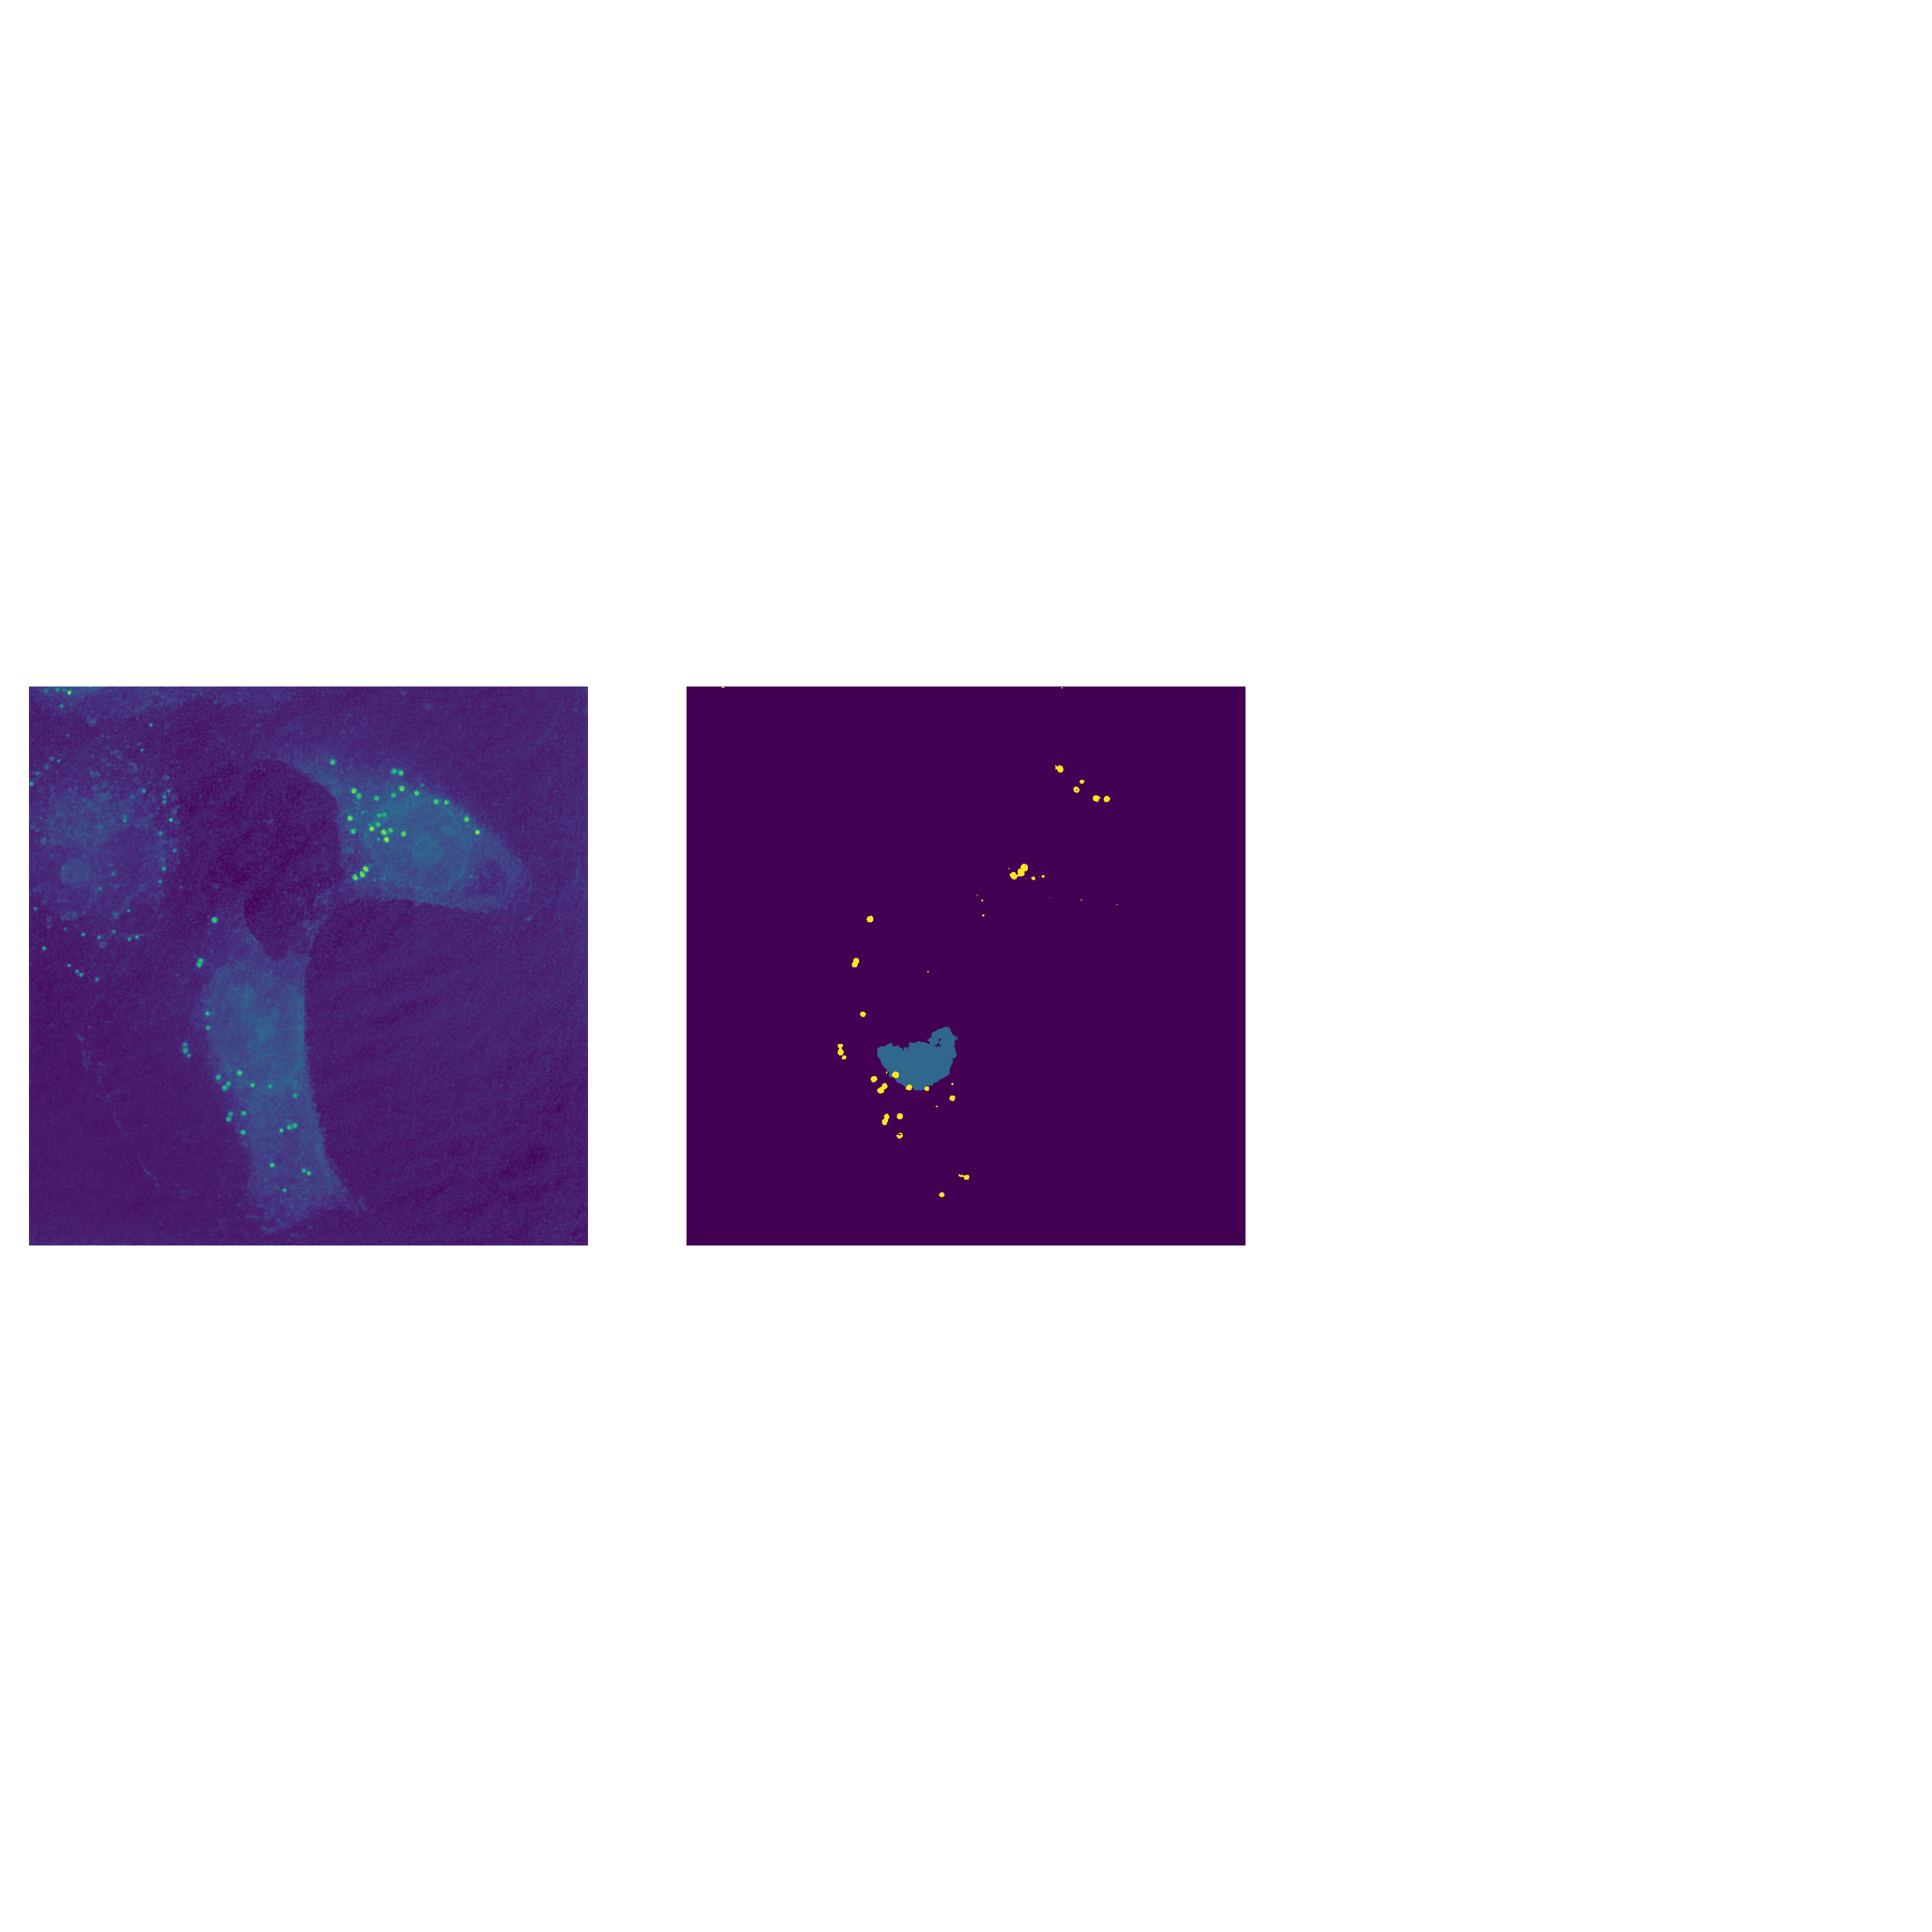
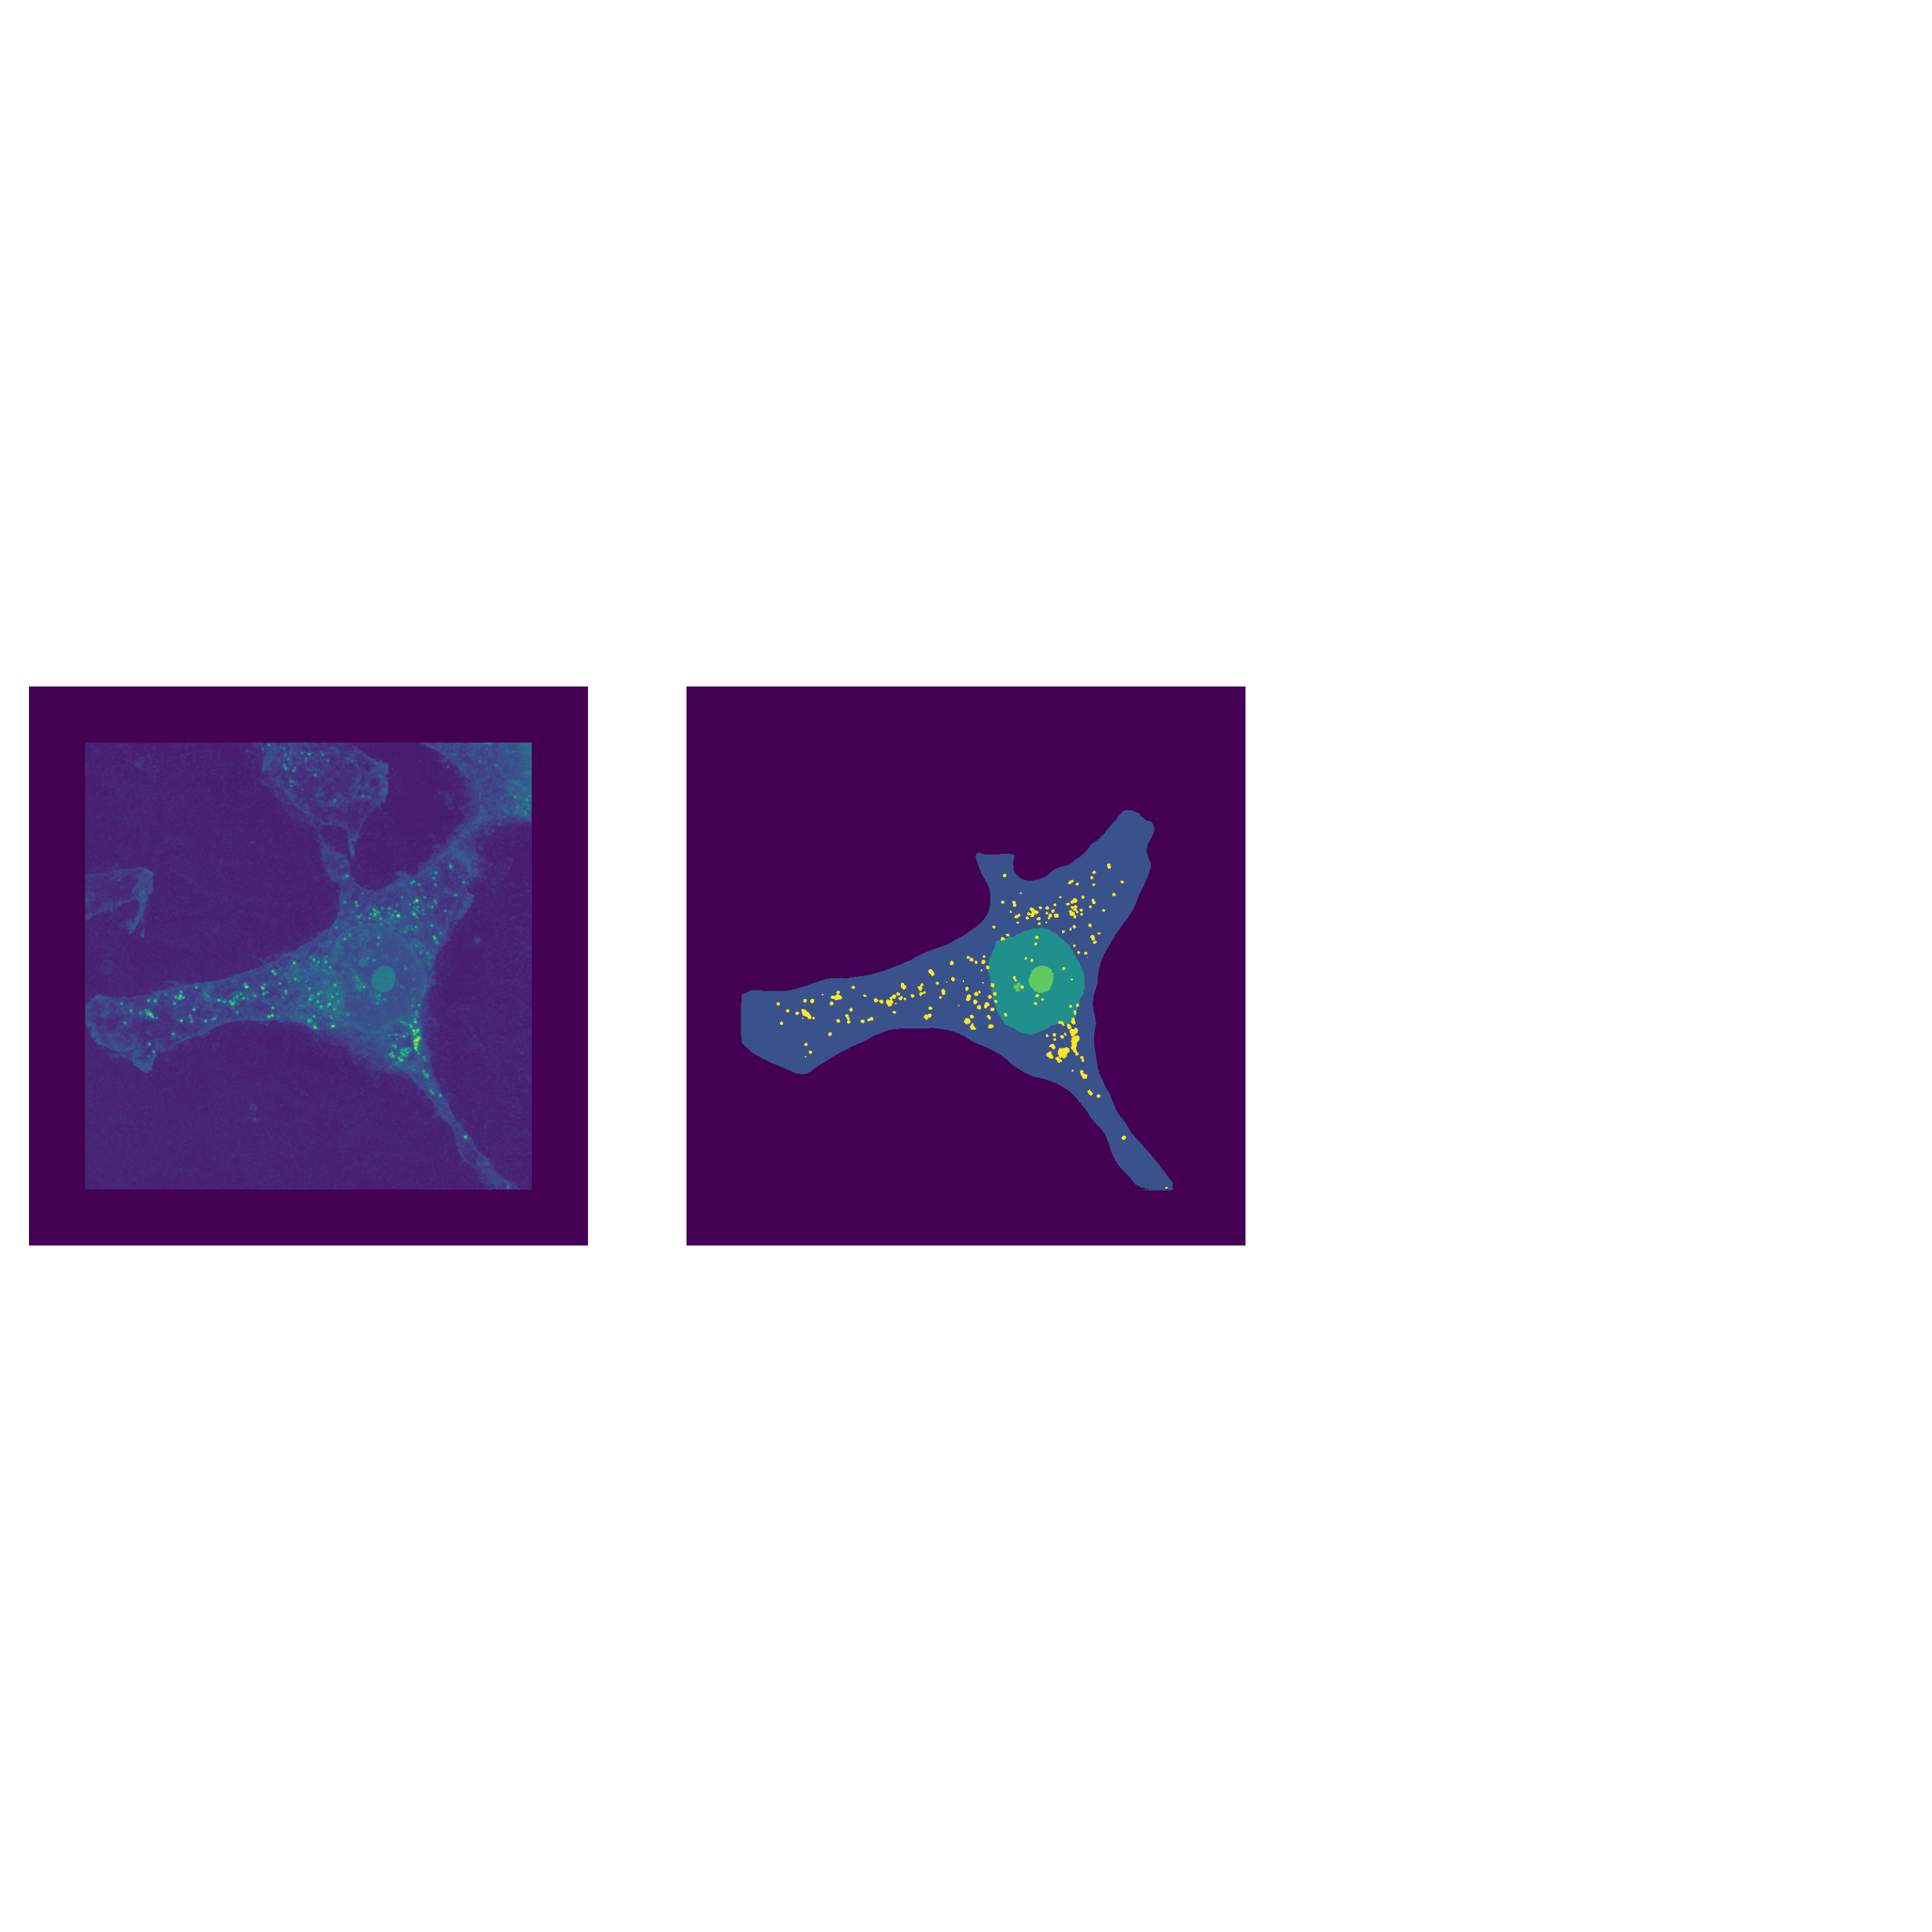
files are updated for cpu

Changed region(s): [[0.0, 0.341, 0.31, 0.651], [0.372, 0.403, 0.62, 0.62]]

diff --git a/qpi_seg/cellpose_pretrained_eval.py b/qpi_seg/cellpose_pretrained_eval.py
@@ -29,19 +29,19 @@ h=val_images[0].shape[1]
 
 out_file_name_stems=[os.path.splitext(file)[0][:30]+'_cp_masks.tiff'for file in val_image_files]
 
-
-val_image_resized=[resize(image, (418,418), anti_aliasing=True,preserve_range=True) for image in val_images]
+#trying rescale to
+val_image_resized=[resize(image, (200,200), anti_aliasing=True,preserve_range=True) for image in val_images]
 
 cpmodel_baseline_50epochs = models.CellposeModel(gpu=False,
                                 pretrained_model=first_model_path)
-
-test_masks_output, flows, styles = cpmodel_baseline_50epochs.eval(val_image_resized, batch_size=4, normalize = True,niter=500,flow_threshold=0.4)
+#niter needs to be higher 
+test_masks_output, flows, styles = cpmodel_baseline_50epochs.eval(val_image_resized, batch_size=4, normalize = True,flow_threshold=0)
 
 #TODO: I have to change shape
 #add a function to resize to the original shape of the image
 
-
-test_masks_resized=[resize(image, (w,h),preserve_range=True,order=0) for image in test_masks_output]
+#check resize preserve_range, interpolation order options
+test_masks_resized=[resize(image, (w,h),anti_aliasing=True) for image in test_masks_output]
 
 out_file_name_masks=[os.path.join(output_mask_folder, file) for file in out_file_name_stems]
 

diff --git a/qpi_seg/predict_unseen.py b/qpi_seg/predict_unseen.py
@@ -12,19 +12,19 @@ import qpi_seg.split_mask_5_channels as split
 import qpi_seg.visualize_unseen_unmasked as visualize
 
 device = torch.device("cuda") if torch.cuda.is_available() else torch.device("cpu")
-assert torch.cuda.is_available()
+#assert torch.cuda.is_available()
 model=UNet(depth=6,in_channels=1,out_channels=5, num_fmaps=32,final_activation=nn.Softmax()).to(device)
 
 #change the model path
-model_save=torch.load('')
+model_save=torch.load(r'C:\Users\anous\OneDrive - Johns Hopkins\2026_DL_Janelia_course\UNet_model_1\checkpoint_epoch_190.pt',map_location=torch.device('cpu'))
 model.load_state_dict(model_save['model_state_dict'])
 model=model.to(device)
 
 #put your unseen images here
-test_images_folder=r''
+test_images_folder=r'C:\Users\anous\Downloads\Test_anoushka'
 
 #put folder where masks will be saved
-unet_masks_output_folder=r''
+unet_masks_output_folder=r'C:\Users\anous\Downloads\Test_anoushka_masks'
 
 
 test_files= os.listdir(test_images_folder)
@@ -63,7 +63,7 @@ for i in range(1):
     ch4_prediction=torch_prediction[3,:,:]
     ch5_prediction=torch_prediction[4,:,:]
     clustermap[ch1_prediction>=0.5]=0
-    clustermap[ch2_prediction<=1]=1
+    clustermap[ch2_prediction>=0.5]=1
     clustermap[ch3_prediction>=0.5]=2
     clustermap[ch4_prediction>=0.5]=3
     clustermap[ch5_prediction>=0.5]=4

diff --git a/README.md b/README.md
@@ -14,7 +14,7 @@ Instructions to start it working on PC (use VS studio terminal)
 once you are on the folder 
 4. conda create -n artemis2d (suggested name of new environment)
 5. pip3 install torch torchvision (for downloading torch on Windows without GPU)
-6. pip install celllpose
+6. pip install cellpose
 
 
 